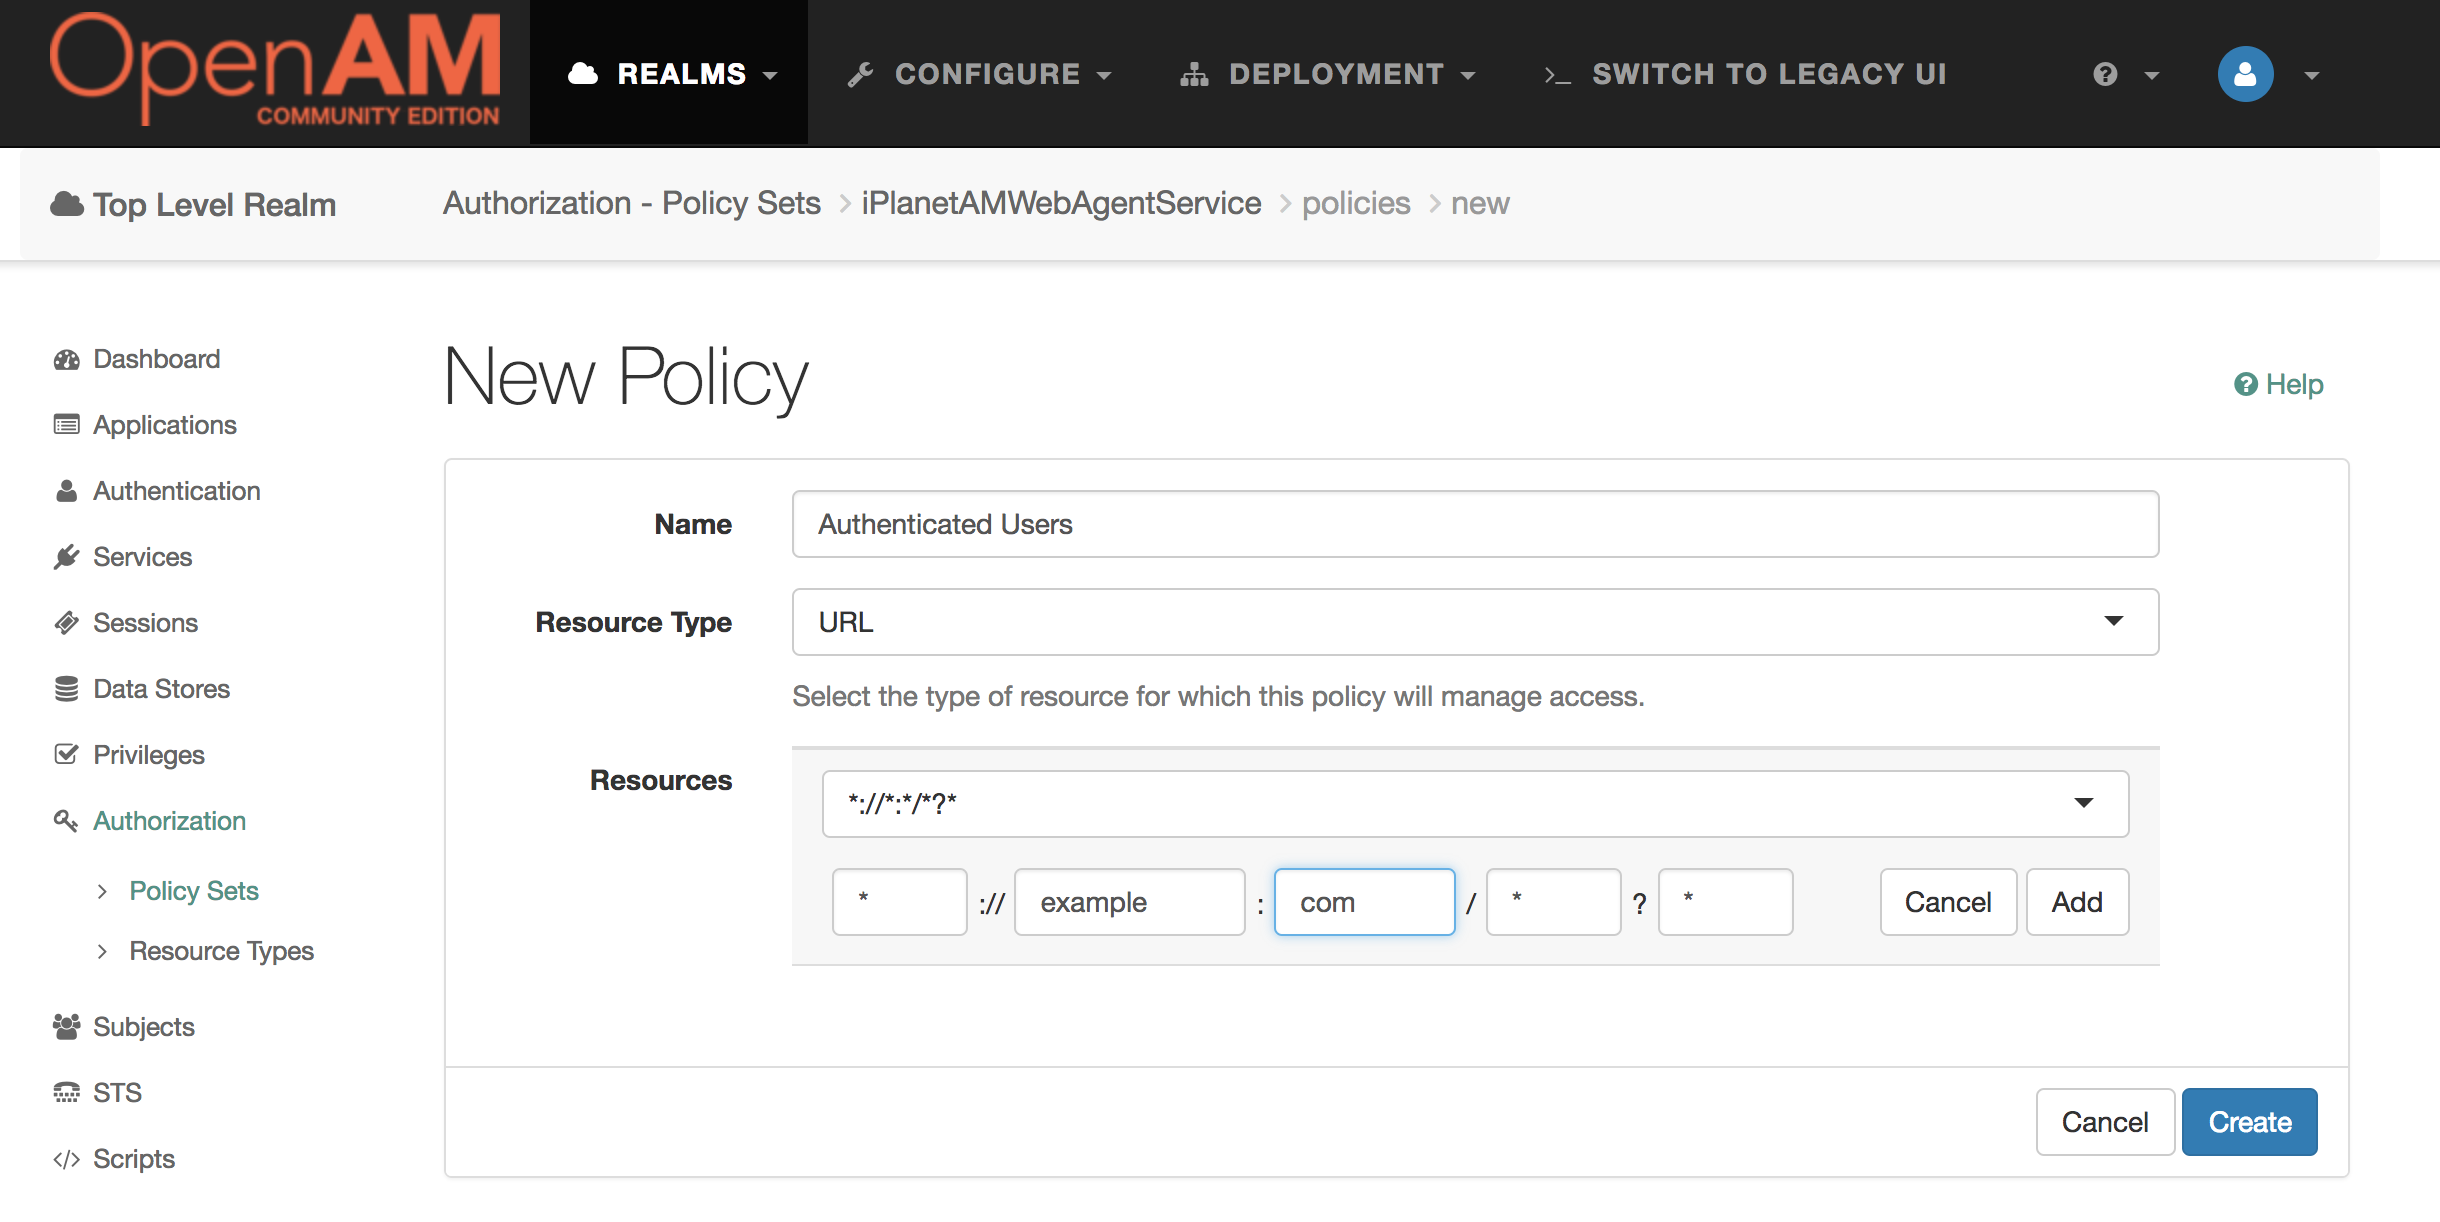
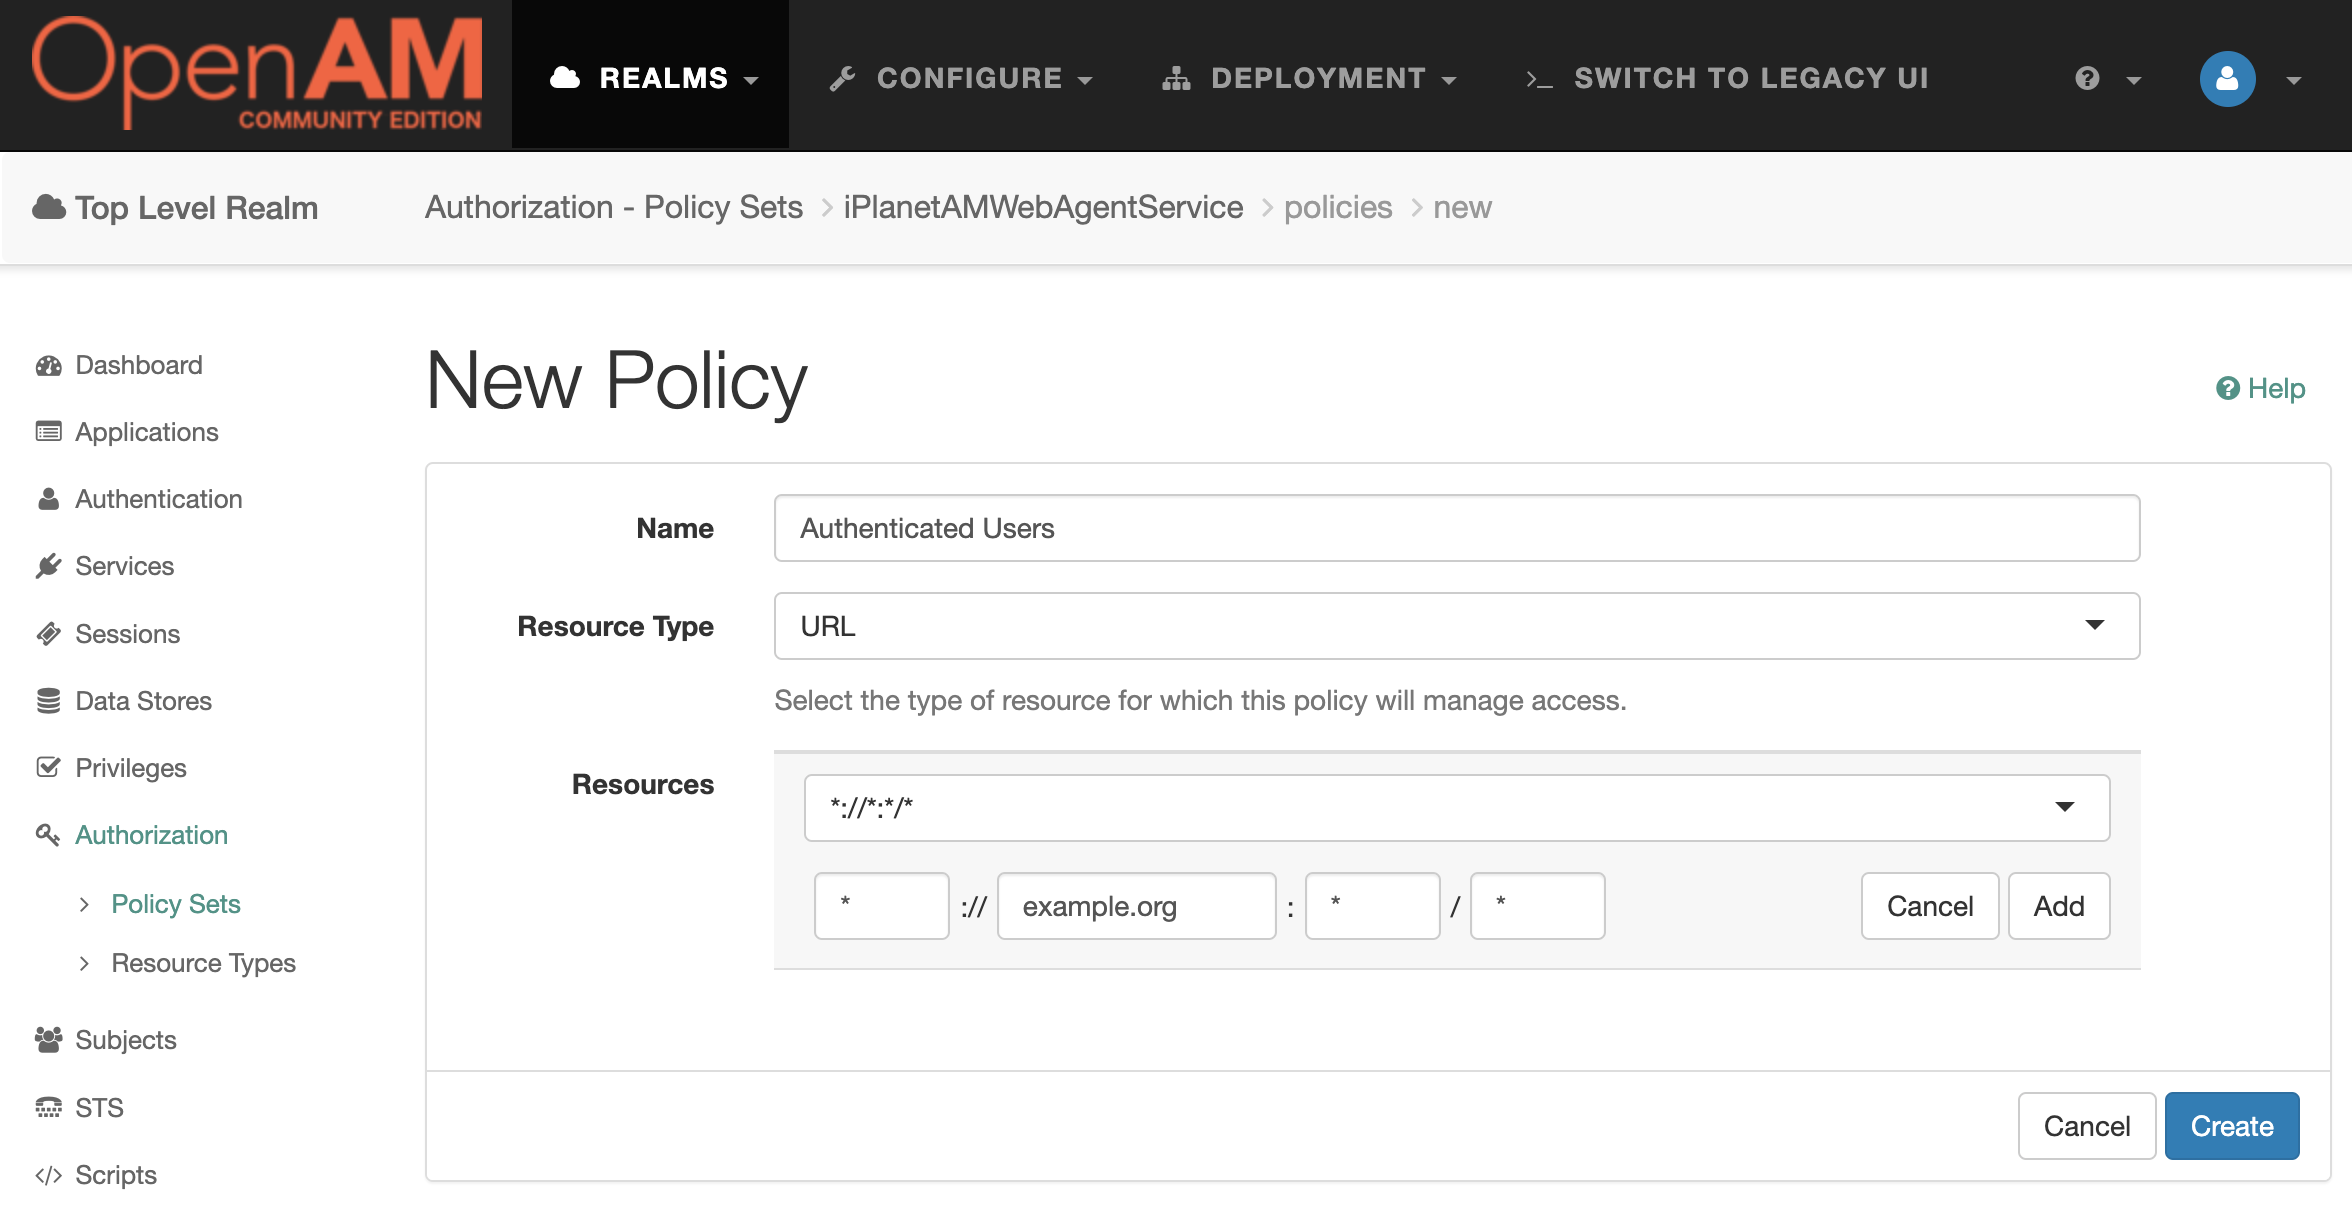
openam quick start update (#159)

diff --git a/blog/openam-quick-start-guide.md b/blog/openam-quick-start-guide.md
@@ -19,25 +19,30 @@ Install Docker for your platform, if you did not do this before, from
 ### Prepare Hosts File
 
 At first you need to add your to your _hosts_ file aliases
-_openam.example.com_ - for OpenAm and _example.com_ for Apache Http Server.
+_openam.example.org_ - for OpenAm and _example.org_ for Apache Http Server.
 Your hosts file should contain following line:
 
 ```bash
-127.0.0.1    localhost openam.example.com www.example.com
+127.0.0.1    openam.example.org example.org
 ```
 
 ## OpenAM Configuration
 
 ### Running OpenAM Image
 
+Create Docker network for OpenAM
+```bash
+docker network create openam-quickstart
+```
+
 Run OpenAM image
 ```bash
-docker run -h openam.example.com -p 8080:8080 --name openam openidentityplatform/openam
+docker run -h openam.example.org -p 8080:8080 --network openam-quickstart --name openam openidentityplatform/openam
 ```
 
 ### Basic OpenAM Setup
 Open your browser, goto url
-[http://openam.example.com:8080/openam](http://openam.example.com:8080/openam).
+[http://openam.example.org:8080/openam](http://openam.example.org:8080/openam).
 ![OpenAM Configuration Start](/assets/img/openam-quickstart/openam-conf-start.png)
 
 Click __Create Default Configuration__.
@@ -52,7 +57,7 @@ Set password for default admin user and policy agent
 
 Press __Create Configuration__.
 After configuration successfully created, press __Proceed to Login__ or open
-[http://openam.example.com:8080/openam/console](http://openam.example.com:8080/openam/console) link in browser.
+[http://openam.example.org:8080/openam/console](http://openam.example.org:8080/openam/console) link in browser.
 
 
 ### Policy Configuration
@@ -61,7 +66,7 @@ After configuration successfully created, press __Proceed to Login__ or open
 
 In administration console select realm, then go to __Authorization -> Policy Sets__, select __Default Policy Set__ and add new Policy
 
-Set Policy Name as you wish, Resource Type set URL, and add new Resource _\*://example:com/*?*_ and click __Create__ to save new policy.
+Set Policy Name as you wish, Resource Type set URL, and add new Resource _\*://example.org:*/\*_ and click __Create__ to save new policy.
 
 ![OpenAM Console New Policy](/assets/img/openam-quickstart/openam-console-newpolicy.png)
 
@@ -85,9 +90,9 @@ Set name as you wish, for example `apache_agent`, set agent password.
 
 ![OpenAM Create Web Agent](/assets/img/openam-quickstart/openam-console-webagents-create.png)
 
-Server URL set http://openam.example.com:8080/openam
+Server URL set http://openam.example.org:8080/openam
 
-Agent URL set http://example.com:80
+Agent URL set http://example.org:80
 
 Click __Create__ to save new Web Agent
 
@@ -97,18 +102,20 @@ Click __General__ tab to return to main menu.
 
 Navigate to __Configure -> Global Services -> Platform -> Cookie Domain__.
 
-Set cookie domain to _.example.com_, save your settings.
+Set cookie domain to _.example.org_, save your settings.
 
 
 ## Apache HTTP Server Configuration
 Create Dockerfile in your  _/home/user/openam-quickstart/apache/_ folder with following content
 
 ```dockerfile
-FROM httpd:2.4
+FROM httpd:2.4.34
 
 ENV PA_PASSWORD password
 
-RUN apt-get update && apt-get install -y wget unzip
+RUN apt-get update || true
+
+RUN apt-get install -y wget unzip
 
 RUN wget --show-progress --progress=bar:force:noscroll --quiet --output-document=/tmp/Apache_v24_Linux_64bit_4.1.1.zip https://github.com/OpenIdentityPlatform/OpenAM-Web-Agents/releases/download/4.1.1/Apache_v24_Linux_64bit_4.1.1.zip
 
@@ -120,7 +127,9 @@ RUN echo $PA_PASSWORD > /tmp/pwd.txt
 
 RUN cat /tmp/pwd.txt
 
-RUN /usr/web_agents/apache24_agent/bin/agentadmin --s "/usr/local/apache2/conf/httpd.conf" "http://openam.example.com:8080/openam" "http://example.com:80" "/" "apache_agent" "/tmp/pwd.txt" --acceptLicence --changeOwner
+RUN cat /etc/issue
+
+RUN /usr/web_agents/apache24_agent/bin/agentadmin --s "/usr/local/apache2/conf/httpd.conf" "http://openam.example.org:8080/openam" "http://example.org:80" "/" "apache_agent" "/tmp/pwd.txt" --acceptLicence --changeOwner
 ```
 
 Set ENV PA_PASSWORD as you previously set for your WebAgent in OpenAm
@@ -134,8 +143,8 @@ docker build --network=host -t apache_agent -f /home/user/openam-quickstart/apac
 
 And then run image
 ```bash
-docker run -it --name apache_agent -p 80:80 -h example.com --shm-size 2G --link=openam  apache_agent
+docker run -it --name apache_agent -p 80:80 -h example.org --shm-size 2G --network openam-quickstart apache_agent
 ```
 
-Open in browser link [http://example.com](http://example.com), and you will be redirected to OpenAM Authentication. After authentication you should see default Apache HTTP Server page
+Open in browser link [http://example.org](http://example.org), and you will be redirected to OpenAM Authentication. After authentication you should see default Apache HTTP Server page
 ![Apache Default Page](/assets/img/openam-quickstart/apache-default.png)
